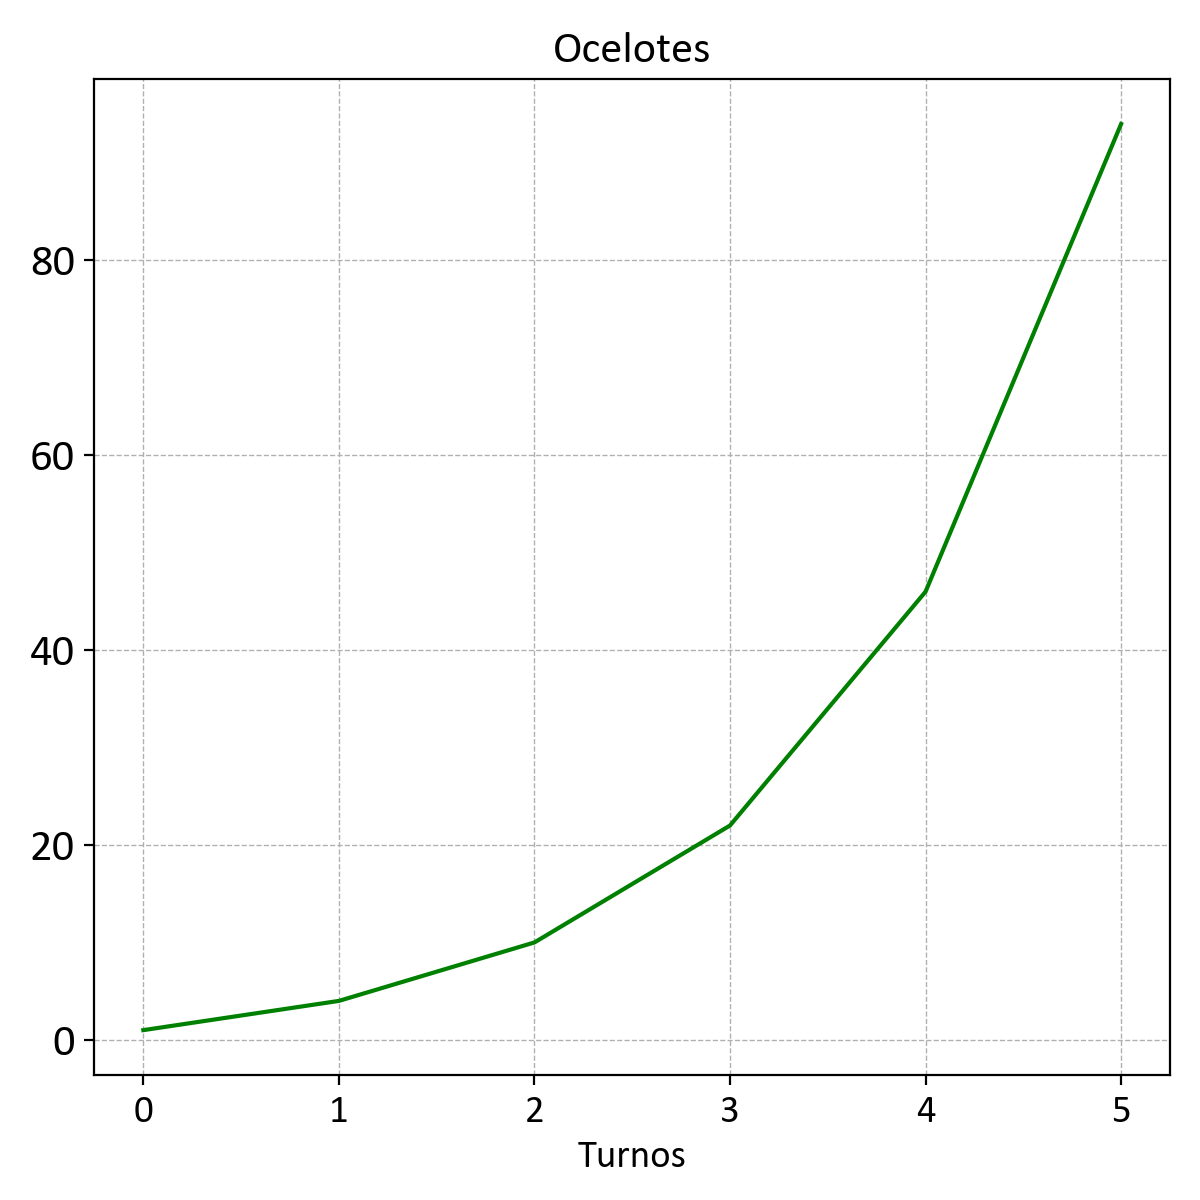
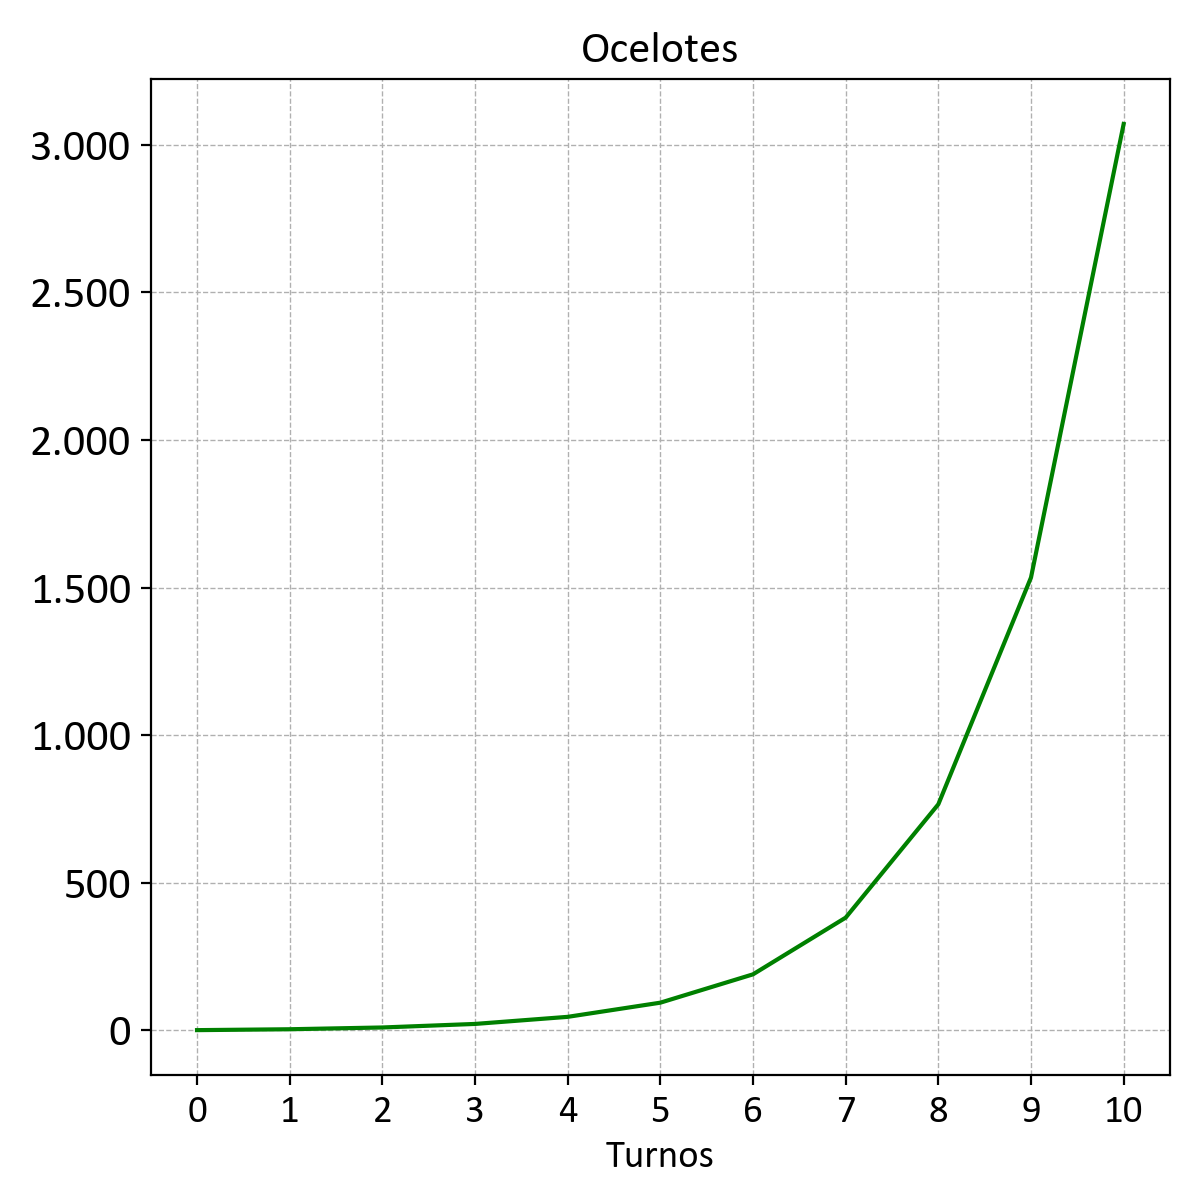
minor changes

diff --git a/ocelote helm/main.py b/ocelote helm/main.py
@@ -48,7 +48,7 @@ def plot_graphs(data, name, color):
     plt.close()
 
 if __name__ == "__main__":
-    ocelots_list, cats_list = simulate_turns(5)
+    ocelots_list, cats_list = simulate_turns(10)
 
     for i in range(len(ocelots_list)):
         print(f'Turno {i}: Ocelotes: {ocelots_list[i]}, Gatos: {cats_list[i]}')
